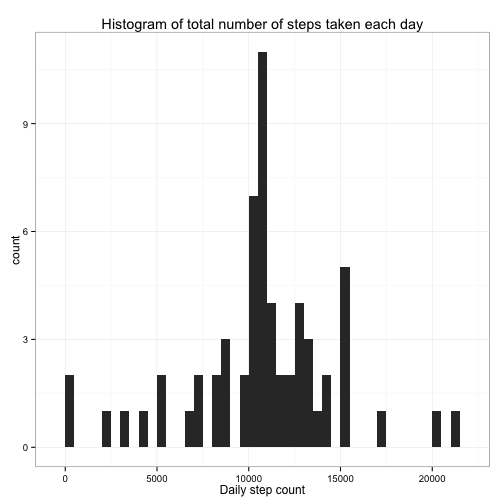
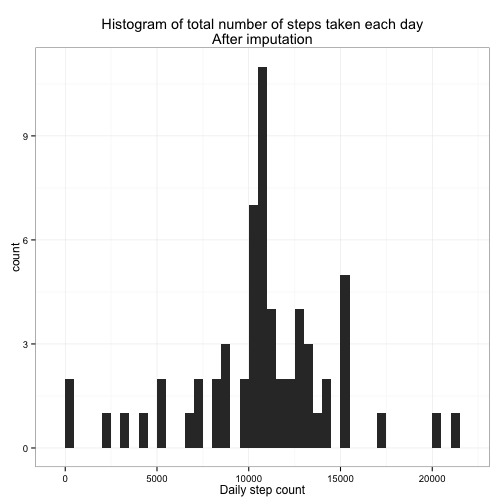
Final commit prior to grading

diff --git a/PA1_template.html b/PA1_template.html
@@ -292,11 +292,11 @@ mstepcount.imp &lt;- daystepcount.imp %&gt;% ungroup() %&gt;%
   summarise(mean = mean(day.count, na.rm = T), median = median(day.count, na.rm = T))
 
 ggplot(daystepcount.imp) + geom_histogram(aes(x = day.count), binwidth = 500) + 
-  ggtitle(&#39;Histogram of total number of steps taken each day&#39;) + theme_bw() +
+  ggtitle(&#39;Histogram of total number of steps taken each day\nAfter imputation&#39;) + theme_bw() +
   xlab(&#39;Daily step count&#39;)
 </code></pre>
 
[2 lines of base64/hex data omitted]
 
 <p>The mean and median number of steps per day of the imputed data</p>
 

diff --git a/PA1_template.md b/PA1_template.md
@@ -36,9 +36,6 @@ ggplot(daystepcount) + geom_histogram(aes(x = day.count), binwidth = 1000) +
 ![plot of chunk steps_a_day_hist](figure/steps_a_day_hist-1.png) 
 
 
-
-
-
 ```r
 # Mean and median number of steps/day
 mstepcount <- daystepcount %>% ungroup() %>% 
@@ -109,7 +106,7 @@ mstepcount.imp <- daystepcount.imp %>% ungroup() %>%
   summarise(mean = mean(day.count, na.rm = T), median = median(day.count, na.rm = T))
 
 ggplot(daystepcount.imp) + geom_histogram(aes(x = day.count), binwidth = 500) + 
-  ggtitle('Histogram of total number of steps taken each day') + theme_bw() +
+  ggtitle('Histogram of total number of steps taken each day\nAfter imputation') + theme_bw() +
   xlab('Daily step count')
 ```
 
